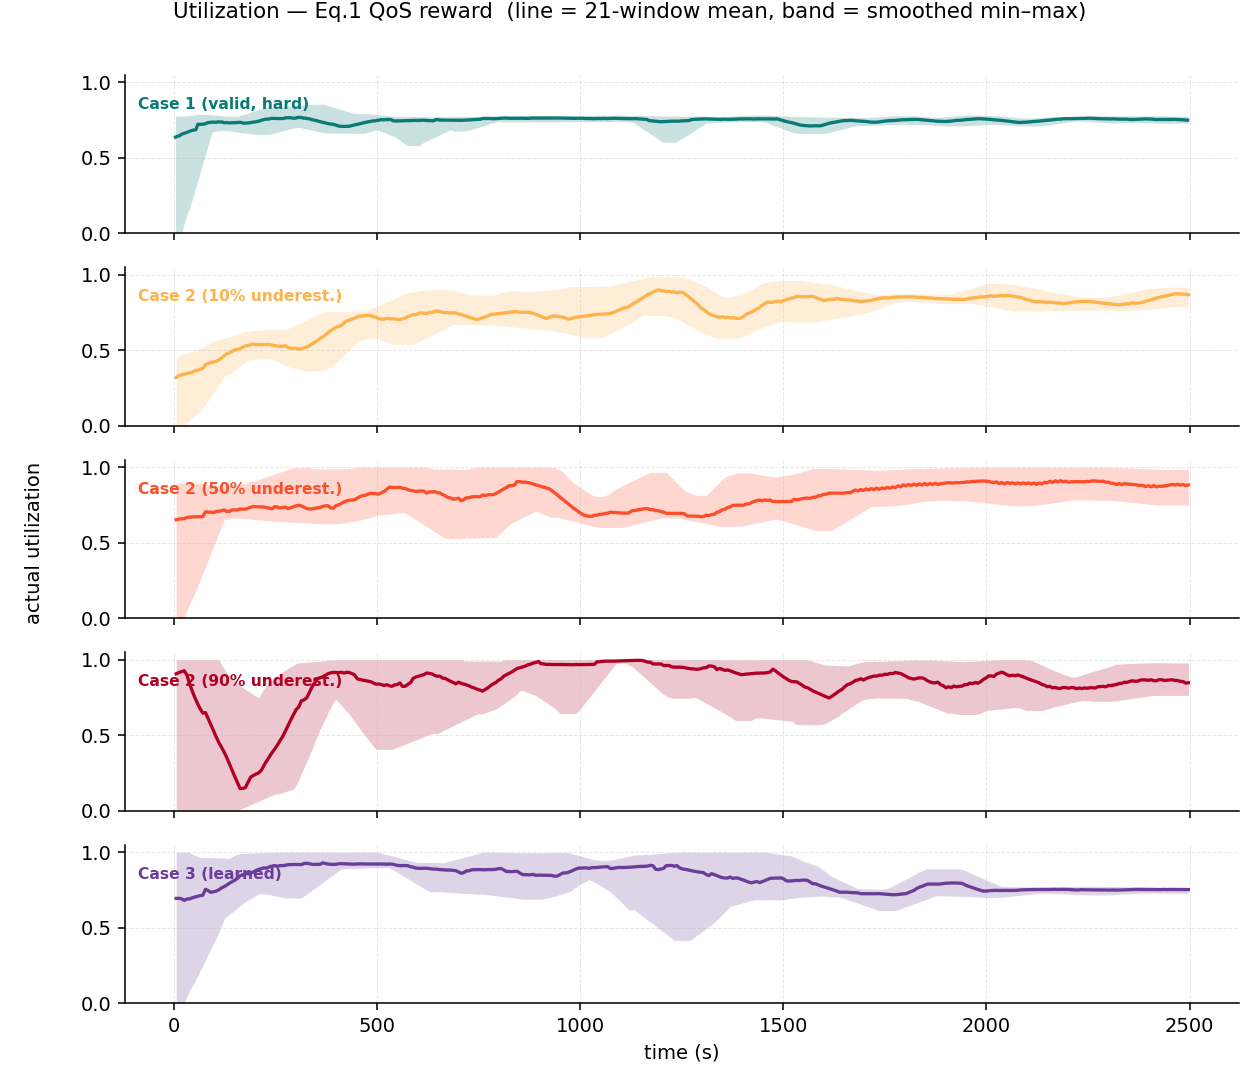
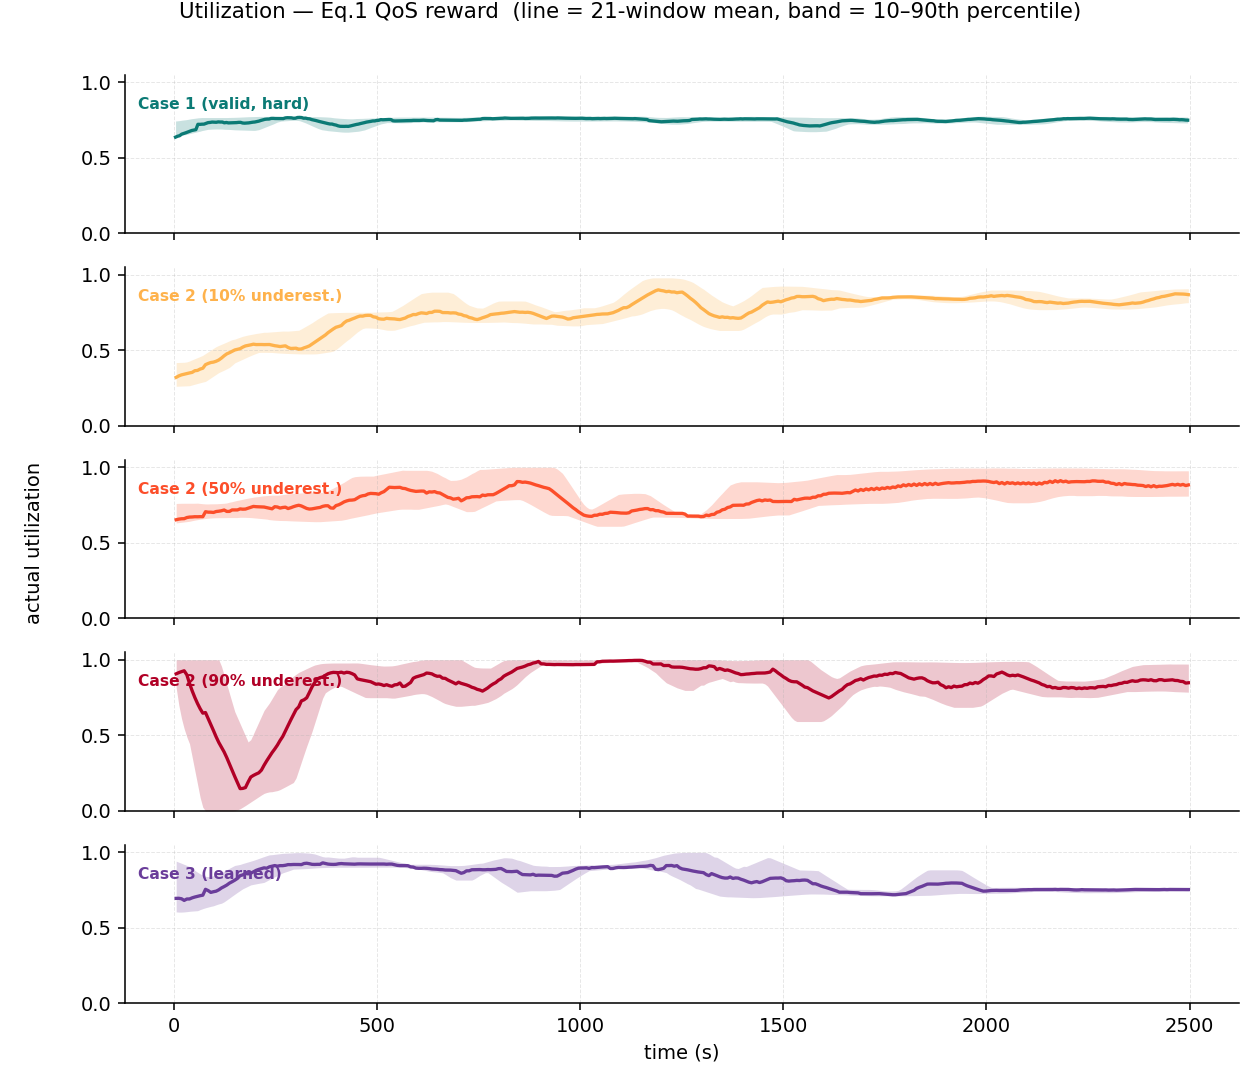
Figures: 10-90th percentile band instead of min-max
A min/max band is dominated by rare spikes on skewed DMR data (mostly 0, rare
1.0), ballooning the upper edge and leaving the mean line stranded at the
bottom. Switch to a smoothed 10-90th percentile band: it collapses to the mean
in miss-free stretches and widens only during miss bursts, so the mean sits
naturally inside the band. Regenerated paper + v2 sets.

diff --git a/scripts/fig_three_cases.py b/scripts/fig_three_cases.py
@@ -139,17 +139,29 @@ def _style(ax):
         ax.spines[sp].set_visible(False)
 
 
-def _rollband(y, w=21, env_smooth=15):
-    """Rolling mean + a SMOOTH min/max envelope band. The raw rolling min/max plateaus at
-    extremes (boxy on spiky 0/1 data), so the lo/hi envelopes are themselves smoothed with a
-    moving average — the band then reflects the min/max range but hugs the mean smoothly
-    (the shaded-confidence-band look). Lower edge clipped at 0."""
+def _pct(seg, p):
+    """Linear-interpolated p-th percentile of seg (p in 0..100)."""
+    s = sorted(seg)
+    if len(s) == 1:
+        return s[0]
+    k = (len(s) - 1) * p / 100.0
+    f = int(k); c = min(f + 1, len(s) - 1)
+    return s[f] + (s[c] - s[f]) * (k - f)
+
+
+def _rollband(y, w=21, env_smooth=11, plo=10, phi=90):
+    """Rolling mean + a SMOOTH percentile band (10th–90th by default). A min/max band is
+    dominated by rare spikes on skewed data (e.g. DMR: mostly 0 with occasional 1.0), which
+    balloons the upper edge and leaves the mean looking stranded at the bottom. The 10–90
+    percentile reflects where most windows actually sit, so the mean sits naturally inside the
+    band; edges are moving-average-smoothed for the shaded-band look. Lower edge clipped at 0."""
     n, half = len(y), w // 2
     m, lo, hi = [], [], []
     for i in range(n):
         a, b = max(0, i - half), min(n, i + half + 1)
         seg = y[a:b]
-        m.append(sum(seg) / len(seg)); lo.append(min(seg)); hi.append(max(seg))
+        m.append(sum(seg) / len(seg))
+        lo.append(_pct(seg, plo)); hi.append(_pct(seg, phi))
     lo = [max(0.0, v) for v in _smooth(lo, env_smooth)]
     hi = _smooth(hi, env_smooth)
     return m, lo, hi
@@ -181,7 +193,7 @@ def plot():
                 ax.spines[sp].set_visible(False)
         axes[-1].set_xlabel("time (s)")
         fig.supylabel(ylabel, fontsize=10)
-        fig.suptitle(f"{metric_title} — {rlabel}  (line = 21-window mean, band = smoothed min–max)",
+        fig.suptitle(f"{metric_title} — {rlabel}  (line = 21-window mean, band = 10–90th percentile)",
                      fontsize=11, y=0.998)
         fig.tight_layout(rect=[0.015, 0, 1, 0.99])
         p = fig_path(key)
